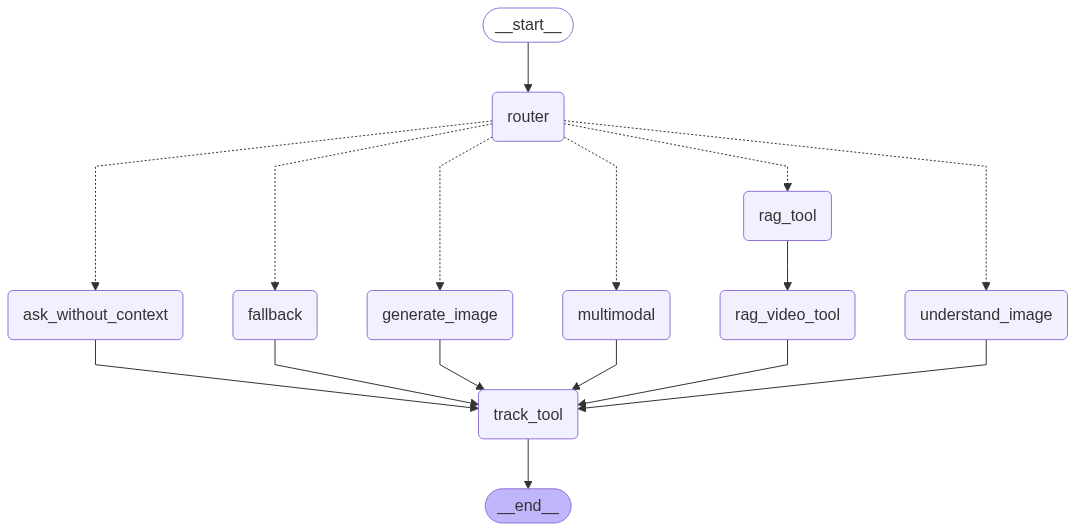
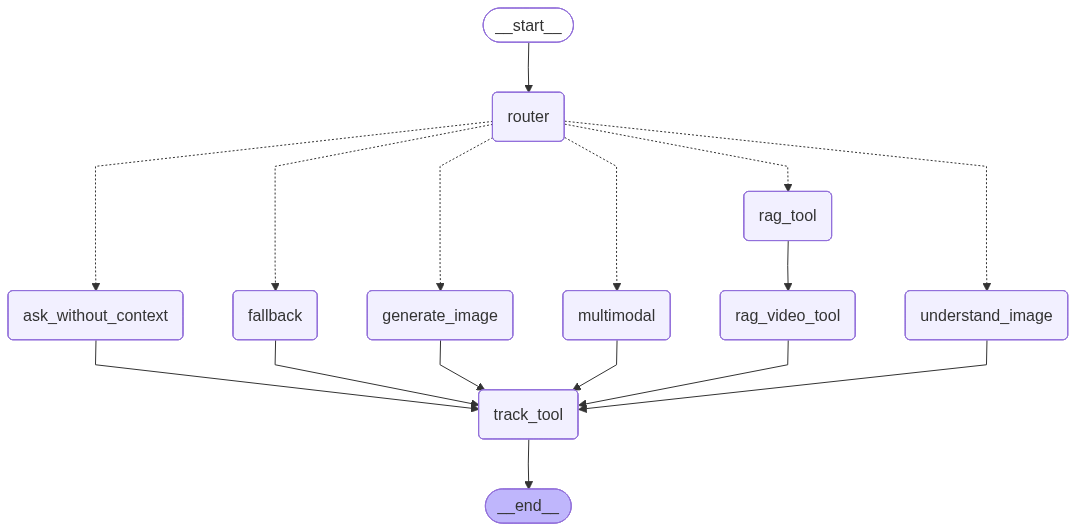
feat: make generate_response.py runnable locally without remote infra
- Add ai/embedding_model.py (DashScope) and ai/vector_store.py (Milvus/
  Chroma) factories that the workflow already imported but were missing
  from the repo. vector_store defaults overwrite=False so startup reuses
  the index populated by ingest.py; ingest.py now passes overwrite=True.
- workflow.py: build a SqliteSaver checkpointer locally and only use
  Postgres when POSTGRES_URL is set, instead of connecting to a hardcoded
  Aliyun instance on import. Drop IPython dependency; graph.png render is
  best-effort so a mermaid outage can't block startup.
- rag_node.py: replace removed RetrievalQA/LLMChain with an LCEL chain
  (retriever | prompt | llm | parser); drop the duplicate unused prompt
  block and the unbound {video_url} placeholder.
- rag_video_node.py: get_relevant_documents → invoke (langchain 1.x).
- llm/deepseek.py: read DASHSCOPE_API_KEY from env instead of hardcoded
  empty string; langchain.callbacks → langchain_core.callbacks.

diff --git a/ai/workflow/workflow.py b/ai/workflow/workflow.py
@@ -11,34 +11,38 @@ from workflow.track_tool_node import track_tool_node
 from workflow.understand_image_node import understand_image_node
 from workflow.state import State
 from dotenv import load_dotenv
-from langgraph.checkpoint.postgres import PostgresSaver
-from IPython.display import Image, display
-from psycopg import Connection
-import sqlite3
-from langgraph.checkpoint.sqlite import SqliteSaver
-
-# uncommentfor local test
-# db_path = "memory.db"
-# conn = sqlite3.connect(db_path, check_same_thread=False)
-# sql_memory = SqliteSaver(conn)
 
 load_dotenv(override=True)
 
-endpoint = "pc-wz9nv355xw5ed6129.pg.polardb.rds.aliyuncs.com:5432"
-username = "ai_test"
-password = "Testtest123"
-database = "postgres_test"
 
-postgres_url = f"postgresql://{username}:{password}@{endpoint}:5432/{database}"
+def _build_checkpointer():
+    """Return a LangGraph checkpointer.
 
-connection_kwargs = {
-    "autocommit": True,
-    "prepare_threshold": 0,
-}
+    Uses Postgres when ``POSTGRES_URL`` is set (production), otherwise a
+    local sqlite file so the workflow can run without remote infra.
+    """
+    import os
 
-conn = Connection.connect(postgres_url, **connection_kwargs)
-checkpointer = PostgresSaver(conn)
-checkpointer.setup()
+    postgres_url = os.getenv("POSTGRES_URL")
+    if postgres_url:
+        from langgraph.checkpoint.postgres import PostgresSaver
+        from psycopg import Connection
+
+        conn = Connection.connect(
+            postgres_url, autocommit=True, prepare_threshold=0
+        )
+        saver = PostgresSaver(conn)
+        saver.setup()
+        return saver
+
+    import sqlite3
+    from langgraph.checkpoint.sqlite import SqliteSaver
+
+    conn = sqlite3.connect("memory.db", check_same_thread=False)
+    return SqliteSaver(conn)
+
+
+checkpointer = _build_checkpointer()
 
 
 # [input] → [router_node] ─┬──► [rag_node] ──► [rag_video_node] ──► [track_tool_node] ─► END
@@ -88,14 +92,14 @@ def generate_workflow():
 
     # Compile the graph
     workflow = graph.compile(checkpointer=checkpointer)
-    # workflow = graph.compile(checkpointer=sql_memory)
 
-    # Display as image (if using Jupyter or IPython)
-    display(Image(workflow.get_graph().draw_mermaid_png()))
-
-    # Save image to file
-    with open("graph.png", "wb") as f:
-     f.write(workflow.get_graph().draw_mermaid_png())   
+    # Save graph diagram to file. Rendering uses a remote mermaid service,
+    # so failures here must not block startup.
+    try:
+        with open("graph.png", "wb") as f:
+            f.write(workflow.get_graph().draw_mermaid_png())
+    except Exception as e:
+        print(f"[workflow] skipped graph render: {e}")
 
     return workflow
 

diff --git a/ai/workflow/rag_node.py b/ai/workflow/rag_node.py
@@ -1,50 +1,32 @@
-from langchain.prompts import PromptTemplate
-from langchain.chains import RetrievalQA
-from langchain.chains import LLMChain
+from langchain_core.prompts import PromptTemplate
+from langchain_core.output_parsers import StrOutputParser
+from langchain_core.runnables import RunnablePassthrough
 from llm.deepseek import deepseek_llm
 from workflow.retrieval import retriever
 from workflow.state import State
 
-template_text = """
-You are a helpful assistant.
-
-Please answer the user's question using the following combined context.
-
-### Detailed Context (from RAG chunks)
-{context}
-
-Related Video
-{video_url}
-
-Question: {question}
-
-Answer:
-"""
-
-prompt = PromptTemplate(
-    input_variables=["context", "video_url", "question"],
-    template=template_text,
-)
-
-# RAG prompt
 rag_prompt = PromptTemplate.from_template("""
 Use the context below to answer the question.
 
 Context:
 {context}
-                                          
-Related Video
-{video_url}
 
 Question: {question}
 """)
 
-rag_chain = RetrievalQA.from_chain_type(
-    llm=deepseek_llm(),
-    retriever=retriever,
-    chain_type_kwargs={"prompt": rag_prompt}
+
+def _format_docs(docs):
+    return "\n\n".join(d.page_content for d in docs)
+
+
+rag_chain = (
+    {"context": retriever | _format_docs, "question": RunnablePassthrough()}
+    | rag_prompt
+    | deepseek_llm()
+    | StrOutputParser()
 )
 
+
 def rag_node(state: State) -> State:
-    response = rag_chain.run(state["messages"][-1].content)
+    response = rag_chain.invoke(state["messages"][-1].content)
     return {**state, "messages": response}

diff --git a/ai/vector_store.py b/ai/vector_store.py
@@ -1,0 +1,22 @@
+"""Vector store factory.
+
+``overwrite`` defaults to False so the query path (workflow startup)
+reuses the index that ``ingest.py`` already populated instead of wiping
+it. Pass ``overwrite=True`` from the ingestion script when rebuilding.
+"""
+from llama_index.vector_stores.milvus import MilvusVectorStore
+
+
+def get_vector_store(name: str, *, overwrite: bool = False):
+    if name == "milvus":
+        return MilvusVectorStore(
+            uri="./milvus_demo.db", dim=1536, overwrite=overwrite
+        )
+    if name == "chroma":
+        import chromadb
+        from llama_index.vector_stores.chroma import ChromaVectorStore
+
+        chroma_client = chromadb.EphemeralClient()
+        chroma_collection = chroma_client.create_collection("quickstart")
+        return ChromaVectorStore(chroma_collection=chroma_collection)
+    raise ValueError(f"unknown vector store: {name}")

diff --git a/ai/embedding_model.py b/ai/embedding_model.py
@@ -1,0 +1,18 @@
+"""Embedding model factory.
+
+Referenced by ``ingest.py``, ``workflow/retrieval.py`` and the chat
+scripts. Kept thin so callers can swap providers without touching the
+retrieval pipeline.
+"""
+from llama_index.embeddings.dashscope import (
+    DashScopeEmbedding,
+    DashScopeTextEmbeddingModels,
+)
+
+
+def get_embedding(name: str):
+    if name == "dashscope":
+        return DashScopeEmbedding(
+            model_name=DashScopeTextEmbeddingModels.TEXT_EMBEDDING_V2,
+        )
+    raise ValueError(f"unknown embedding provider: {name}")

diff --git a/ai/llm/deepseek.py b/ai/llm/deepseek.py
@@ -1,10 +1,11 @@
+import os
 from langchain_openai import ChatOpenAI
-from langchain.callbacks.streaming_stdout import StreamingStdOutCallbackHandler
-DASHSCOPE_API_KEY=""
+from langchain_core.callbacks.streaming_stdout import StreamingStdOutCallbackHandler
+
 
 def deepseek_llm():
     llm = ChatOpenAI(
-        api_key=DASHSCOPE_API_KEY,
+        api_key=os.getenv("DASHSCOPE_API_KEY"),
         base_url="https://dashscope.aliyuncs.com/compatible-mode/v1",
         model="deepseek-r1",
         streaming=True,

diff --git a/ai/ingest.py b/ai/ingest.py
@@ -66,7 +66,7 @@ def ingest(knowledge_base_dir: str = DEFAULT_KNOWLEDGE_BASE) -> int:
         )
 
     embed_model = get_embedding("dashscope")
-    vector_store = get_vector_store("milvus")
+    vector_store = get_vector_store("milvus", overwrite=True)
 
     documents = SimpleDirectoryReader(knowledge_base_dir).load_data()
     documents.extend(SEED_DOCUMENTS)

diff --git a/ai/workflow/rag_video_node.py b/ai/workflow/rag_video_node.py
@@ -3,7 +3,7 @@ from workflow.state import State
 
 
 def rag_video_node(state: State) -> State:
-    results = retriever.get_relevant_documents(state["messages"][-1].content)
+    results = retriever.invoke(state["messages"][-1].content)
 
     if results:
         video_url = results[0].metadata["url"]
